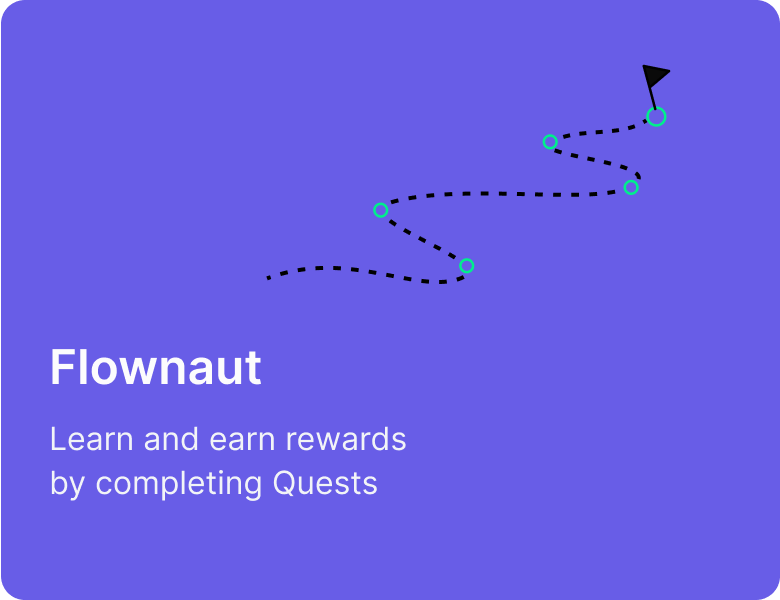
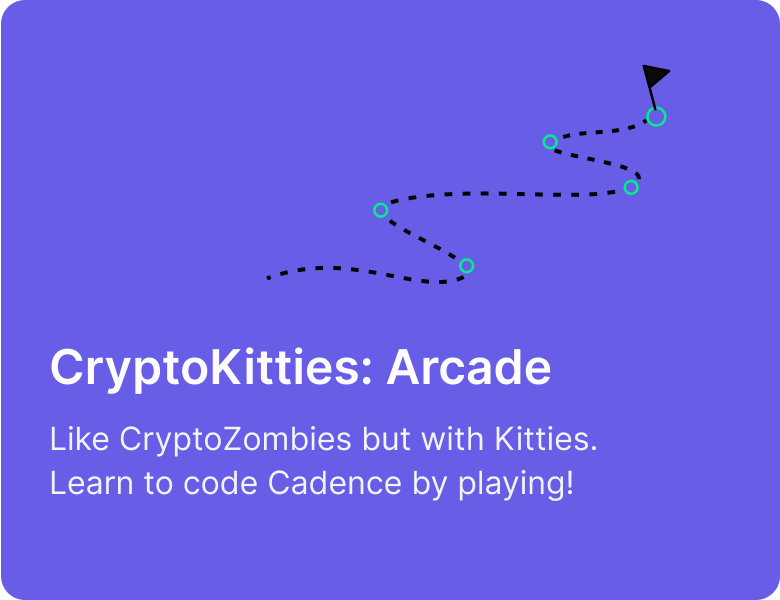
update bento card to point to new arcade link

Changed region(s): [[0.0615, 0.57, 0.7077, 0.66], [0.0615, 0.78, 0.7385, 0.84], [0.0923, 0.69, 0.7692, 0.75]]

diff --git a/src/ui/design-system/src/lib/Components/HomepageStartList/index.tsx b/src/ui/design-system/src/lib/Components/HomepageStartList/index.tsx
@@ -18,7 +18,7 @@ const homepageData: Record<string, HomepageStartItemProps> = {
     icon: 'start-here',
   },
   'flow-quest': {
-    link: 'https://flownaut.ecdao.org/en',
+    link: 'https://arcade.ecdao.org/',
     icon: 'path-quest',
   },
   'lang-reference': {
